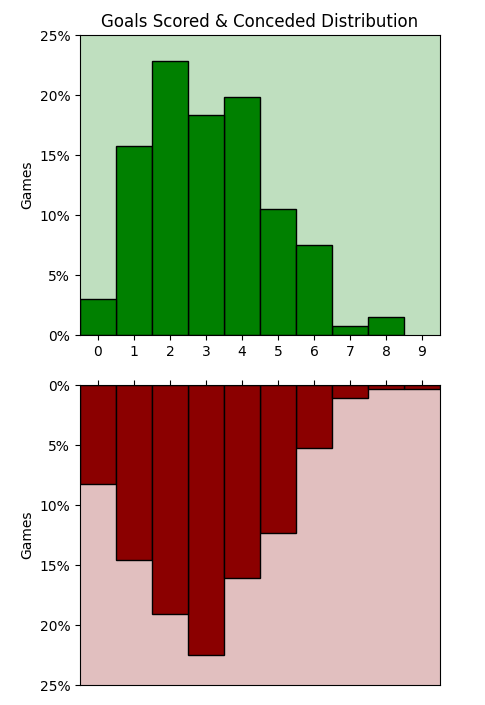
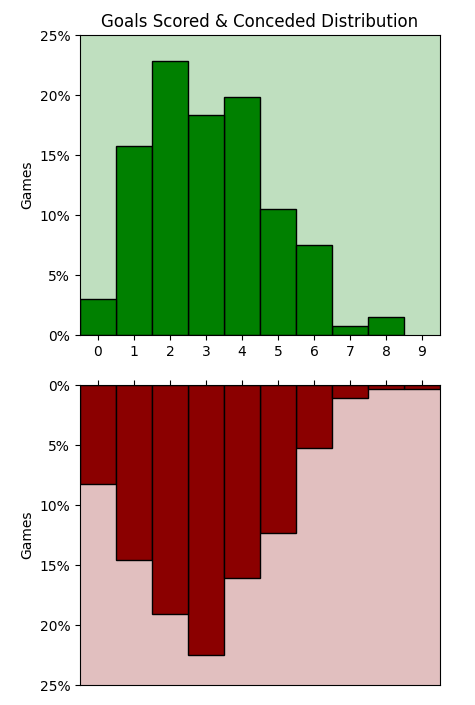
Slightly adjusted image size of GS & GC Distribution charts

diff --git a/src/boxcarstest.py b/src/boxcarstest.py
@@ -3276,7 +3276,7 @@ if save_and_crop:
     # Chart 9 - goals scored & conceded distribution
     left = 1480
     top = 1115
-    right = 1965
+    right = 1955
     bottom = 1820
     img_res_9 = img.crop((left, top, right, bottom))
     img_res_9.save(path_to_charts + "gs_and_gc_distribution_chart.png")
